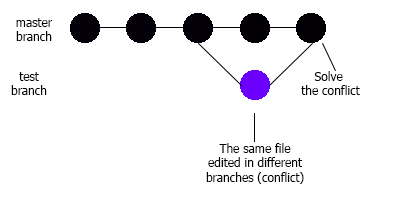
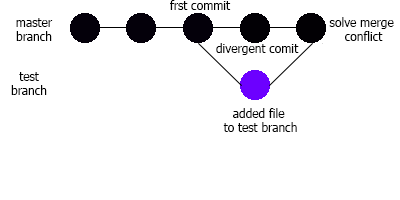
one more task is done

diff --git a/IDE/Lab#1/README.md b/IDE/Lab#1/README.md
@@ -5,7 +5,7 @@
 #### In this laboratory work I executed the following mandatory tasks:
 
    - **Connect to a remote server via SSH**
-   - 
+
 	In order to do this I used `putty` program. 
    - **Initialize a repository on server**
    
@@ -51,13 +51,14 @@
 
      - Reset a branch to previous commit:
        `git reset --hard HEAD`  # where _HEAD_ is the last commit ID in  current branch
-     - Reset a branch to soe specific commit :
+     - Reset a branch to some specific commit :
        ```
        git log             # displays all commits, find here the commit to reset
        git reset --hard ID # put instead of _ID_ finded commit ID
 
        ```
    - **Restore a reset branch back to its previous state**
+
       `git reset --hard ID`
 
    - **Master any CLI editor (VIM). Learn 10 commands' sets**
@@ -76,5 +77,36 @@
        12. `:w`    - save file
        13. `:args` - list files
        14. `:tabnew` - creates a new tab 
+
+   - **Create a VCS merge conflict and solve it**
+
+      Conflict appears when a specific file is edited on two different branches. 
+      [branches](https://raw.githubusercontent.com/TUM-FAF/FAF-121-Leahu-Luminita/master/IDE/Lab%231/branches.png)
+
+      - Create a VCS merge conflict:
+        ```
+        touch file.txt
+        vim file.txt    # write some text 
+        git add file.txt
+        git commit -m "first commit"
+        git checkout -b test  # switvh to a new branch _test_
+        vim file.txt     # make changes in file 
+        git add file.txt
+        git commit -m "added file to test branch"
+        cat file.txt # some text in conflict branch
+        git checkout master # switch to master branch
+        cat file.txt # some text in master branch
+        git checkout master 
+        vim file     # edit the file
+        git commit -a -m "divergent commit"
+
+        git merge conflict # CONFLICT <content>: Merge conflict in file.txt
+        
+      In order to solve the conflict:
+        ```
+        vim file     
+        git commit -a -m "solve merge conflict"
+        
+        ```
 
 
